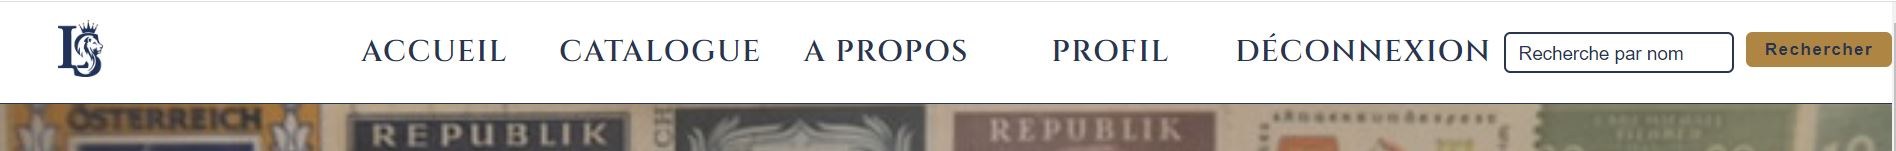
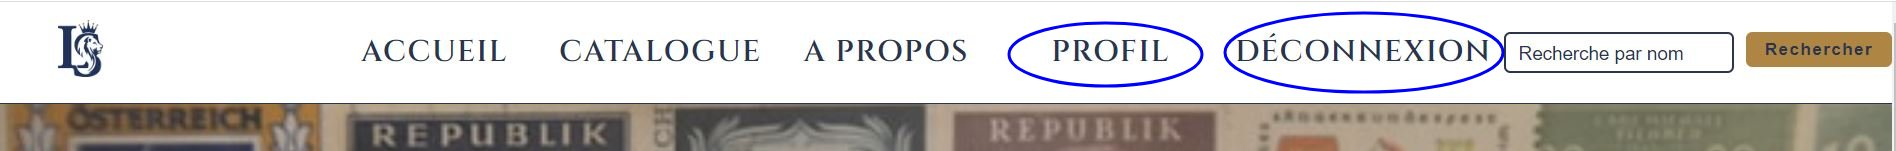
add guideUtilisateur

diff --git a/guideUtilisateur.md b/guideUtilisateur.md
@@ -1,8 +1,76 @@
 # Bienvenue au guide d'utilisateur du site Stampee
 
 ## URL
-- http://stampee.localhost/accueil/index
+  http://stampee.localhost/accueil/index
+
+## Accueil
+
+- Menu navigation en haut
+
+![connexion](./ressources/GuideUtilisateur/connexion.JPG)
+
+- Accés aux timbres par pays
+  
+![connexion](./ressources/GuideUtilisateur/catalogue.JPG)
+
+- Accés ao profil du Lord Stampee
+
+![connexion](./ressources/GuideUtilisateur/aPropos.JPG)
+
+- Accés a notre infolettre
+
+![connexion](./ressources/GuideUtilisateur/infolettre.JPG)
+
 
 ## Se connecter
+    - Aller sur le menu navigation et cliquez sur connexion pour se connecter.
+  
+![connexion](./ressources/GuideUtilisateur/connexion.JPG)
 
-![connexion](http://url/to/img.png)
+    - Si vous êtes déjà membre, entrez votre courriel et votre mot de passe.
+  
+![connexion](./ressources/GuideUtilisateur/connexion2.JPG)
+
+    - Sinon cliquez sur s'inscrire maintenant.
+
+## Membre
+
+- Une fois connecté, le menu de navigation en haut ouvrira une autre fonction appelée : PROFIL.
+
+![connexion](./ressources/GuideUtilisateur/profilLink.JPG)
+
+- Si vous entrez dans le PROFIL vous allez trouvez l'endroit où seront stockés tous vos timbres préférés, les timbres que vous avez créés et vous donneront la possibilité d'insérer un nouveau timbre.
+
+![connexion](./ressources/GuideUtilisateur/donnesMembre.JPG)
+
+## Catalogue
+
+- Dans le menu de navigation, si vous cliquez sur catalogue, vous aurez accès à tous les encheres actuellement disponibles. Ou vous pouvez cliquer directement sur l'accueil dans les images ci-dessous.
+
+![connexion](./ressources/GuideUtilisateur/catalogue.JPG)
+
+- Si vous n'êtes pas connecté, vous aurez accès à tous les enchères et timbres mais vous ne pourrez pas changer et n'aurez pas accès à modifier et supprimer les timbres que vous avez créés.
+
+![connexion](./ressources/GuideUtilisateur/allerTimbre.JPG)
+
+- Si vous êtes connecté, les timbres créés uniquement par vous apparaîtront disponibles pour modification et suppression.
+
+![connexion](./ressources/GuideUtilisateur/allerTimbreMembre.JPG)
+
+- Également dans le catalogue, vous pouvez filtrer par condition de timbre, s'il est certifié ou non et par nom de timbre. Pour cela vous devez sélectionner ce que vous souhaitez filtrer et cliquer sur le bouton rechercher.
+
+![connexion](./ressources/GuideUtilisateur/recherche.JPG)
+
+- En cliquant sur le bouton plus de détails vous aurez accès aux timbres liés à ce enchère et vous pourrez zoomer pour voir plus de détails sur les timbres, plus d'informations à son sujet et si vous êtes connecté vous pourrez faire une mise.
+
+![connexion](./ressources/GuideUtilisateur/timbre.JPG)
+
+
+
+
+
+
+
+
+
+
